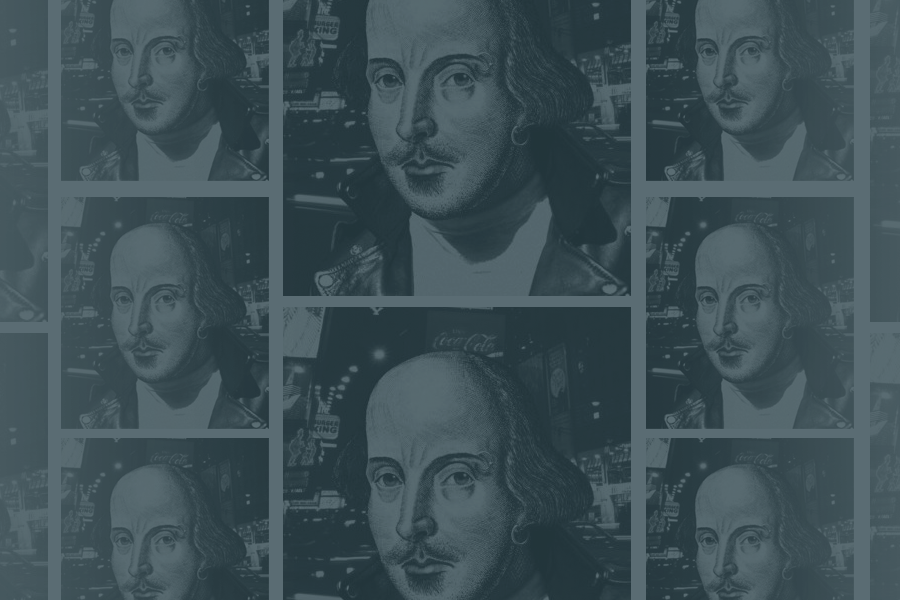
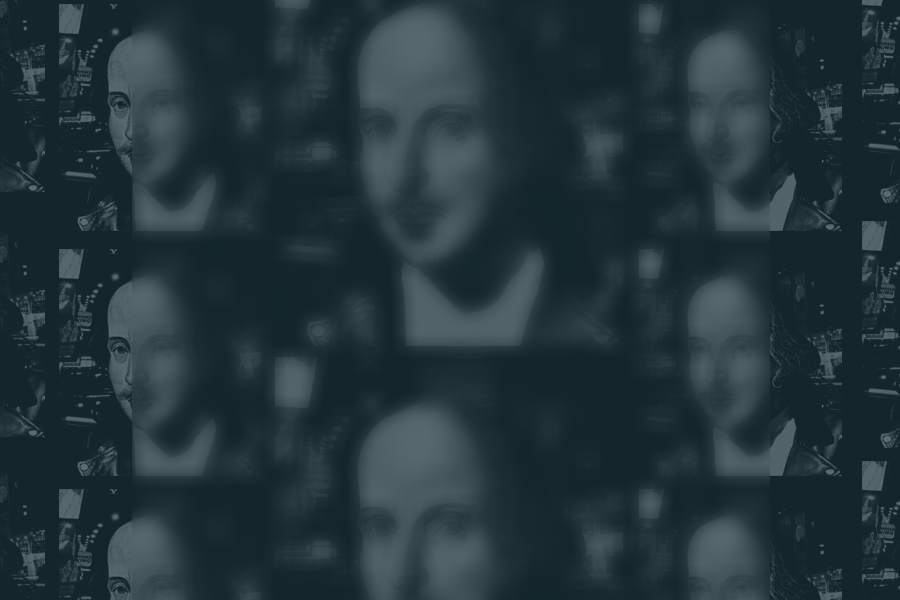
change background blur

diff --git a/membership.html b/membership.html
@@ -37,7 +37,7 @@
 			</div>			
 		</div>
 		<!-- end of header -->
-		<div style="background: #0D2730 url('images/bg.jpg') repeat center; color:#fff; ">
+		<div style="background: #0D2730 url('images/bg.png') repeat center; color:#fff; background-size:100%">
 			<div class="container text-center">
 				<div class="row">
 					<div class="col-md-2 col-lg 3">
